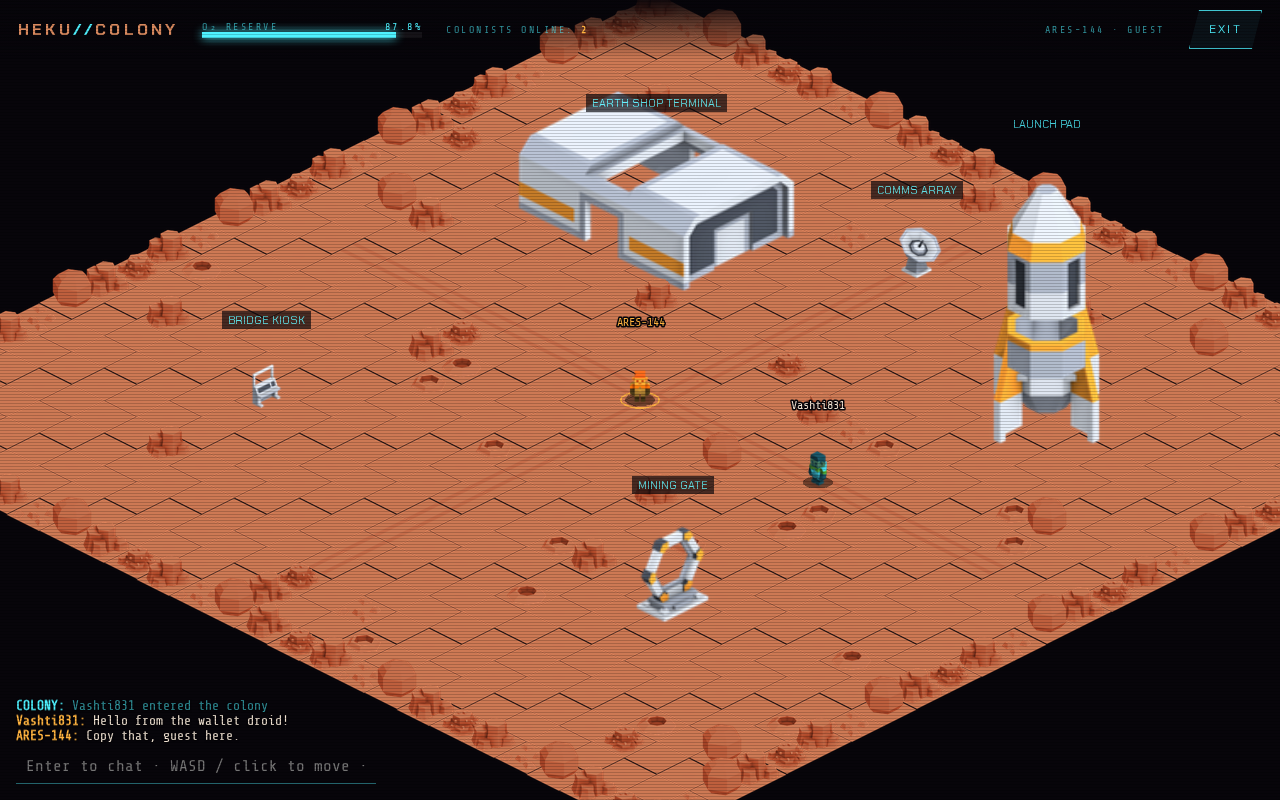
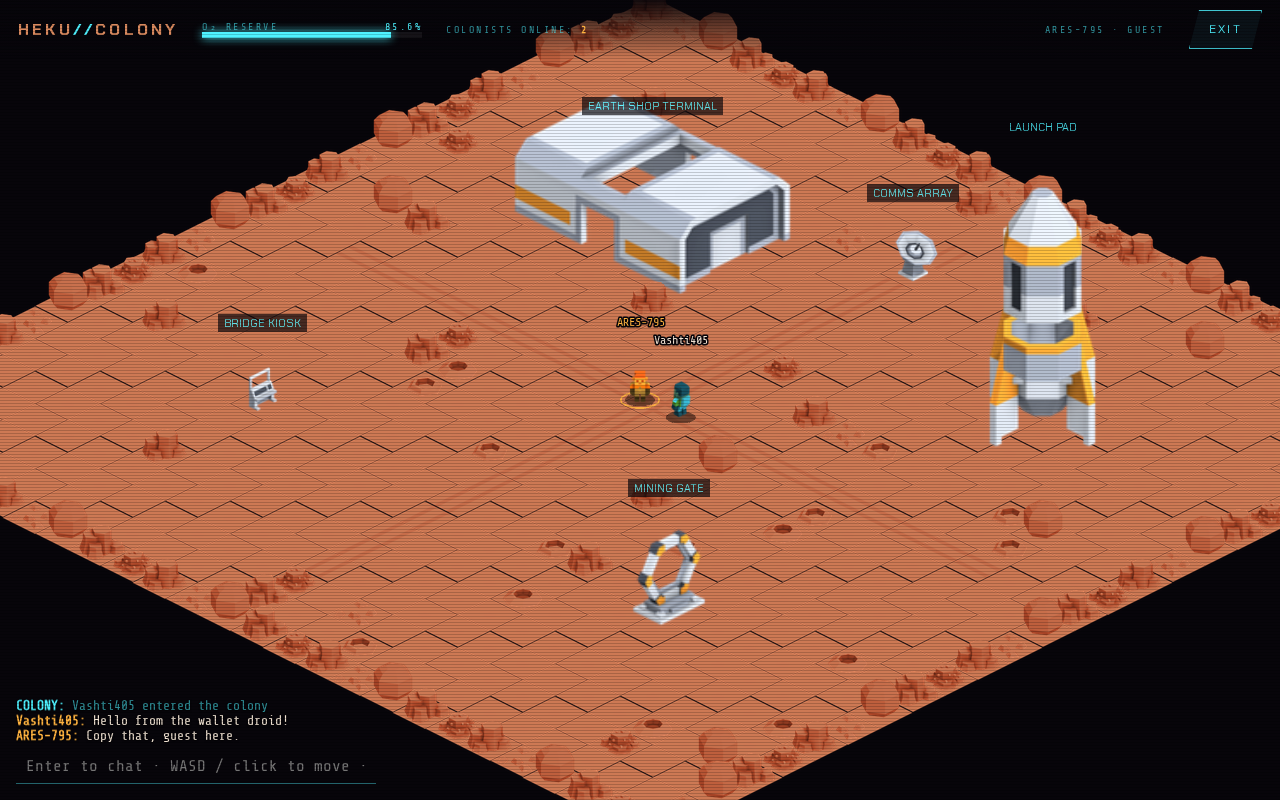
Move backend to Supabase: auth edge function, characters table with RLS, Realtime presence+broadcast; Colyseus server kept unused

diff --git a/client/src/net.ts b/client/src/net.ts
@@ -1,0 +1,56 @@
+// Supabase Realtime networking: Presence (who's online + profile + last pos) and Broadcast (positions ~10 Hz, chat).
+// Exposes a small Colyseus-like surface (sessionId, state.players, send, onMessage) so the Phaser scene stays the same.
+import type { RealtimeChannel } from "@supabase/supabase-js";
+import { supabase, type Character } from "./api";
+import { SPAWN, blocked, W, H } from "../../shared/map";
+import { bfs, step, type Ctl } from "../../shared/sim";
+export type NetPlayer = { id: string; name: string; color: string; variant: string; x: number; y: number; dir: string; moving: boolean; seen: number };
+type CB = (m: never) => void;
+export class Net {
+  sessionId: string; ch!: RealtimeChannel; me: NetPlayer; ctl: Ctl = { vx: 0, vy: 0, path: [] };
+  private map = new Map<string, NetPlayer>(); private handlers = new Map<string, CB[]>(); private addCbs: ((p: NetPlayer, id: string) => void)[] = []; private remCbs: ((p: NetPlayer, id: string) => void)[] = [];
+  private timer?: number; private lastSent = ""; private lastSentAt = 0; private lastChat = 0;
+  state = { players: { get: (id: string) => this.map.get(id), get size() { return 0; }, forEach: (f: (p: NetPlayer, id: string) => void) => this.map.forEach(f), values: () => this.map.values(),
+    onAdd: (f: (p: NetPlayer, id: string) => void) => { this.addCbs.push(f); this.map.forEach((p, id) => f(p, id)); }, onRemove: (f: (p: NetPlayer, id: string) => void) => { this.remCbs.push(f); } } };
+  constructor(c: Character) {
+    this.sessionId = c.userId; this.me = { id: c.userId, name: c.name, color: c.color, variant: c.variant, x: SPAWN.x + Math.random() - .5, y: SPAWN.y + Math.random() - .5, dir: "S", moving: false, seen: Date.now() };
+    Object.defineProperty(this.state.players, "size", { get: () => this.map.size });
+  }
+  private emit(t: string, m: unknown) { (this.handlers.get(t) || []).forEach(f => f(m as never)); }
+  onMessage(t: string, f: CB) { this.handlers.set(t, [...(this.handlers.get(t) || []), f]); }
+  private upsert(id: string, d: Partial<NetPlayer>) { const ex = this.map.get(id); if (ex) { Object.assign(ex, d, { seen: Date.now() }); return; }
+    if (!d.name) return; const p = { id, name: d.name!, color: d.color || "#ffffff", variant: d.variant || "astronautA", x: d.x ?? SPAWN.x, y: d.y ?? SPAWN.y, dir: d.dir || "S", moving: !!d.moving, seen: Date.now() };
+    this.map.set(id, p); this.addCbs.forEach(f => f(p, id)); }
+  /** re-add a player we timed out (e.g. their tab was throttled) using their presence profile */
+  private revive(id: string) { if (!id || this.map.has(id)) return; const meta = this.ch.presenceState()[id]?.[0] as Partial<NetPlayer> | undefined; if (meta) this.upsert(id, meta); }
+  private remove(id: string) { const p = this.map.get(id); if (!p || id === this.sessionId) return; this.map.delete(id); this.remCbs.forEach(f => f(p, id)); this.emit("sys", { text: `${p.name} left` }); }
+  async connect() {
+    this.map.set(this.sessionId, this.me);
+    this.ch = supabase.channel("colony", { config: { presence: { key: this.sessionId }, broadcast: { self: false } } });
+    this.ch.on("presence", { event: "sync" }, () => { const st = this.ch.presenceState<{ name: string; color: string; variant: string; x: number; y: number }>();
+      for (const [id, metas] of Object.entries(st)) if (id !== this.sessionId) this.upsert(id, metas[0]);
+    });
+    this.ch.on("presence", { event: "leave" }, ({ key }) => { setTimeout(() => { if (!this.ch.presenceState()[key]) this.remove(key); }, 3000); });
+    this.ch.on("presence", { event: "join" }, ({ key, newPresences }) => { if (key !== this.sessionId && !this.map.has(key)) { this.upsert(key, newPresences[0] as never); this.emit("sys", { text: `${(newPresences[0] as { name?: string }).name} entered the colony` }); } });
+    this.ch.on("broadcast", { event: "pos" }, ({ payload: p }) => { if (p?.id && p.id !== this.sessionId && Number.isFinite(p.x) && Number.isFinite(p.y)) this.revive(p.id), this.upsert(p.id, { x: clamp(p.x, 0, W), y: clamp(p.y, 0, H), dir: String(p.dir).slice(0, 2), moving: !!p.moving }); });
+    this.ch.on("broadcast", { event: "chat" }, ({ payload: m }) => { this.revive(m?.id); const p = this.map.get(m?.id); if (p && typeof m.text === "string") this.emit("chat", { id: p.id, name: p.name, text: m.text.slice(0, 120) }); });
+    await new Promise<void>((res, rej) => this.ch.subscribe(async s => { if (s === "SUBSCRIBED") { await this.track(); res(); } else if (s === "CHANNEL_ERROR" || s === "TIMED_OUT") rej(new Error("realtime " + s)); }));
+    let last = performance.now();
+    this.timer = window.setInterval(() => { const n = performance.now(); step(this.me, this.ctl, Math.min(.25, (n - last) / 1000)); last = n; this.publish(); }, 33); // departures come from Presence leave (crashed tabs drop after the socket heartbeat timeout)
+    addEventListener("pagehide", this.onHide);
+  }
+  private track() { const m = this.me; return this.ch.track({ name: m.name, color: m.color, variant: m.variant, x: m.x, y: m.y }); }
+  private publish() { const m = this.me; const s = `${m.x.toFixed(2)},${m.y.toFixed(2)},${m.dir},${m.moving}`; const now = Date.now();
+    if ((s !== this.lastSent && now - this.lastSentAt >= 100) || now - this.lastSentAt > 2000) { this.lastSent = s; this.lastSentAt = now; this.ch.send({ type: "broadcast", event: "pos", payload: { id: m.id, x: +m.x.toFixed(3), y: +m.y.toFixed(3), dir: m.dir, moving: m.moving } }); }
+    if (!m.moving && this.lastTracked !== s && now - this.lastTrackAt > 3000) { this.lastTracked = s; this.lastTrackAt = now; this.track(); } } // presence keeps a resting position for late joiners
+  private lastTracked = ""; private lastTrackAt = 0;
+  send(t: string, m: { vx?: number; vy?: number; x?: number; y?: number; text?: string }) {
+    if (t === "input") { this.ctl.vx = Math.sign(m.vx || 0); this.ctl.vy = Math.sign(m.vy || 0); if (this.ctl.vx || this.ctl.vy) this.ctl.path = []; }
+    if (t === "moveTo") { const tx = Math.floor(m.x!), ty = Math.floor(m.y!); if (tx < 0 || ty < 0 || tx >= W || ty >= H || blocked(tx, ty)) return; this.ctl.vx = this.ctl.vy = 0; this.ctl.path = bfs(Math.floor(this.me.x), Math.floor(this.me.y), tx, ty).slice(0, 80); }
+    if (t === "chat") { const text = String(m.text || "").replace(/\s+/g, " ").trim().slice(0, 120); if (!text || Date.now() - this.lastChat < 800) return; this.lastChat = Date.now();
+      this.ch.send({ type: "broadcast", event: "chat", payload: { id: this.sessionId, text } }); this.emit("chat", { id: this.sessionId, name: this.me.name, text }); }
+  }
+  private onHide = () => this.leave();
+  leave() { removeEventListener("pagehide", this.onHide); clearInterval(this.timer); this.ch?.untrack(); supabase.removeChannel(this.ch); }
+}
+const clamp = (v: number, a: number, b: number) => Math.max(a, Math.min(b, v));

diff --git a/supabase/functions/auth/index.ts b/supabase/functions/auth/index.ts
@@ -1,0 +1,46 @@
+// Heku Droid auth + characters. Custom session tokens (HMAC-SHA256, secret in public.app_secrets, service-role only).
+// Actions (POST JSON {action,...}): nonce{address} | verify{address,signature} | guest | me{token} | save{token,callsign,chassis,color}
+import { createClient } from "npm:@supabase/supabase-js@2.45.4";
+import { verifyMessage, isAddress, getAddress } from "npm:viem@2.21.25";
+const db = createClient(Deno.env.get("SUPABASE_URL")!, Deno.env.get("SUPABASE_SERVICE_ROLE_KEY")!, { auth: { persistSession: false } });
+const CORS = { "Access-Control-Allow-Origin": "*", "Access-Control-Allow-Headers": "authorization, x-client-info, apikey, content-type", "Access-Control-Allow-Methods": "POST, OPTIONS" };
+const json = (b: unknown, s = 200) => new Response(JSON.stringify(b), { status: s, headers: { ...CORS, "content-type": "application/json" } });
+const COLORS = ["#ffb340", "#4ff2ff", "#ff3b4a", "#9bd36a", "#c08cff", "#f1e3d3"], CHASSIS = ["astronautA", "astronautB"];
+const b64u = (u: Uint8Array) => btoa(String.fromCharCode(...u)).replace(/\+/g, "-").replace(/\//g, "_").replace(/=+$/, "");
+const hex = (n: number) => Array.from(crypto.getRandomValues(new Uint8Array(n)), b => b.toString(16).padStart(2, "0")).join("");
+let key: CryptoKey | null = null;
+async function hmacKey() { if (key) return key; const { data } = await db.from("app_secrets").select("v").eq("k", "session_hmac").single();
+  key = await crypto.subtle.importKey("raw", new TextEncoder().encode(data!.v), { name: "HMAC", hash: "SHA-256" }, false, ["sign", "verify"]); return key; }
+async function issue(u: string, ttlMs: number) { const p = b64u(new TextEncoder().encode(JSON.stringify({ u, e: Date.now() + ttlMs })));
+  const sig = new Uint8Array(await crypto.subtle.sign("HMAC", await hmacKey(), new TextEncoder().encode(p))); return p + "." + b64u(sig); }
+async function check(t?: string): Promise<string | null> { try { const [p, s] = String(t || "").split("."); if (!p || !s) return null;
+  const sig = Uint8Array.from(atob(s.replace(/-/g, "+").replace(/_/g, "/")), c => c.charCodeAt(0));
+  if (!(await crypto.subtle.verify("HMAC", await hmacKey(), sig, new TextEncoder().encode(p)))) return null;
+  const o = JSON.parse(atob(p.replace(/-/g, "+").replace(/_/g, "/"))); return o.e > Date.now() ? o.u : null; } catch { return null; } }
+const msg = (a: string, n: string) => `Heku Droid login\n\nSign to prove you own this wallet. No transaction, no gas.\n\nAddress: ${a}\nChain: Robinhood Chain Testnet (46630)\nNonce: ${n}`;
+const pub = (c: Record<string, string>) => c && { userId: c.user_id, name: c.callsign, variant: c.chassis, color: c.color };
+Deno.serve(async req => {
+  if (req.method === "OPTIONS") return new Response("ok", { headers: CORS });
+  if (req.method !== "POST") return json({ error: "POST only" }, 405);
+  const b = await req.json().catch(() => ({}));
+  try {
+    switch (b.action) {
+      case "nonce": { if (!isAddress(b.address)) return json({ error: "bad address" }, 400); const a = getAddress(b.address); const n = hex(16);
+        await db.from("auth_nonces").upsert({ address: a, nonce: n, expires_at: new Date(Date.now() + 5 * 60e3).toISOString() }); return json({ message: msg(a, n) }); }
+      case "verify": { if (!isAddress(b.address)) return json({ error: "bad address" }, 400); const a = getAddress(b.address);
+        const { data: row } = await db.from("auth_nonces").select("*").eq("address", a).maybeSingle(); await db.from("auth_nonces").delete().eq("address", a);
+        if (!row || new Date(row.expires_at).getTime() < Date.now()) return json({ error: "nonce expired" }, 400);
+        const ok = await verifyMessage({ address: a, message: msg(a, row.nonce), signature: b.signature }).catch(() => false); if (!ok) return json({ error: "bad signature" }, 401);
+        const u = "w:" + a.toLowerCase(); return json({ token: await issue(u, 7 * 864e5), userId: u }); }
+      case "guest": { const u = "g:" + hex(6); return json({ token: await issue(u, 864e5), userId: u }); }
+      case "me": { const u = await check(b.token); if (!u) return json({ error: "unauthorized" }, 401);
+        const { data } = await db.from("characters").select("*").eq("user_id", u).maybeSingle(); return json({ userId: u, character: data ? pub(data) : null }); }
+      case "save": { const u = await check(b.token); if (!u) return json({ error: "unauthorized" }, 401);
+        const name = String(b.callsign || "").trim(); if (!/^[A-Za-z0-9_\- ]{3,16}$/.test(name)) return json({ error: "Name: 3-16 letters, numbers, _ -" }, 400);
+        if (!COLORS.includes(b.color) || !CHASSIS.includes(b.chassis)) return json({ error: "bad look" }, 400);
+        const { data, error } = await db.from("characters").upsert({ user_id: u, callsign: name, chassis: b.chassis, color: b.color, updated_at: new Date().toISOString() }).select().single();
+        if (error) return json({ error: error.code === "23505" ? "Name taken" : "save failed" }, error.code === "23505" ? 409 : 500); return json({ character: pub(data) }); }
+      default: return json({ error: "unknown action" }, 400);
+    }
+  } catch (e) { console.error(e); return json({ error: "server error" }, 500); }
+});

diff --git a/client/src/Game.tsx b/client/src/Game.tsx
@@ -1,20 +1,20 @@
-import { useEffect, useRef, useState } from "react"; import Phaser from "phaser"; import { Client, type Room } from "colyseus.js";
-import { ColonyScene, bus } from "./scene"; import { WS, type Character } from "./api"; import type { Building } from "../../shared/map";
+import { useEffect, useRef, useState } from "react"; import Phaser from "phaser"; import { Net } from "./net";
+import { ColonyScene, bus } from "./scene"; import { type Character } from "./api"; import type { Building } from "../../shared/map";
 type Msg = { name: string; text: string; sys?: boolean };
 export default function Game({ token, me, onLogout }: { token: string; me: Character; onLogout: () => void }) {
-  const host = useRef<HTMLDivElement>(null); const roomRef = useRef<Room>(); const [log, setLog] = useState<Msg[]>([]); const [near, setNear] = useState<Building | null>(null);
+  const host = useRef<HTMLDivElement>(null); const roomRef = useRef<Net>(); const [log, setLog] = useState<Msg[]>([]); const [near, setNear] = useState<Building | null>(null);
   const [panel, setPanel] = useState<Building | null>(null); const [text, setText] = useState(""); const [count, setCount] = useState(0); const [err, setErr] = useState(""); const [o2, setO2] = useState(100);
   useEffect(() => { let game: Phaser.Game | undefined; let dead = false;
-    new Client(WS).joinOrCreate("colony", { token }).then(room => { if (dead) { room.leave(); return; } roomRef.current = room; (window as unknown as { __room: Room }).__room = room;
+    const net = new Net(me); net.connect().then(() => { const room = net; if (dead) { room.leave(); return; } roomRef.current = room; (window as unknown as { __room: Net }).__room = room; setCount(room.state.players.size);
       game = new Phaser.Game({ type: Phaser.AUTO, parent: host.current!, backgroundColor: "#07050a", scale: { mode: Phaser.Scale.RESIZE, width: window.innerWidth, height: window.innerHeight }, scene: [] });
-      game.scene.add("colony", ColonyScene, true, { room }); room.onLeave(code => { if (code === 4000) setErr("Signed in elsewhere — disconnected."); else if (code > 1000) setErr("Connection lost (" + code + ")."); }); })
-      .catch(e => setErr("Could not join colony: " + (e.message || e)));
+      game.scene.add("colony", ColonyScene, true, { room }); })
+      .catch(e => { net.leave(); setErr("Could not join colony: " + (e.message || e)); });
     const on = (t: string, f: (d: never) => void) => { const h = (e: Event) => f((e as CustomEvent).detail as never); bus.addEventListener(t, h); return () => bus.removeEventListener(t, h); };
     const offs = [on("chat", (m: Msg) => setLog(l => [...l.slice(-30), m])), on("near", (b: Building | null) => setNear(b)), on("interact", (b: Building) => setPanel(b)),
       on("roster", () => setCount(roomRef.current?.state.players.size ?? 0))];
     const o = setInterval(() => setO2(v => (v <= 20 ? 100 : v - .2)), 1000);
     return () => { dead = true; offs.forEach(f => f()); clearInterval(o); roomRef.current?.leave(); game?.destroy(true); };
-  }, [token]);
+  }, [token, me]);
   const send = () => { if (text.trim()) roomRef.current?.send("chat", { text }); setText(""); };
   return <>
     <div ref={host} style={{ position: "fixed", inset: 0 }} />

diff --git a/shared/sim.ts b/shared/sim.ts
@@ -1,0 +1,24 @@
+// Movement sim (pathfinding + collision). Used by the client (Supabase mode, client-authoritative) and kept identical to server/.
+import { blocked, W, H } from "./map";
+export const SPEED = 4;
+const DIRS: Record<string, string> = { "1,0": "SE", "-1,0": "NW", "0,1": "SW", "0,-1": "NE", "1,1": "S", "-1,-1": "N", "1,-1": "E", "-1,1": "W" };
+export type Body = { x: number; y: number; dir: string; moving: boolean };
+export type Ctl = { vx: number; vy: number; path: { x: number; y: number }[] };
+export function bfs(sx: number, sy: number, tx: number, ty: number) {
+  const k = (x: number, y: number) => y * W + x; const prev = new Map<number, number>(); const q = [[sx, sy]]; prev.set(k(sx, sy), -1);
+  while (q.length) { const [x, y] = q.shift()!; if (x === tx && y === ty) break;
+    for (const [dx, dy] of [[1,0],[-1,0],[0,1],[0,-1],[1,1],[-1,-1],[1,-1],[-1,1]]) { const nx = x + dx, ny = y + dy;
+      if (nx < 0 || ny < 0 || nx >= W || ny >= H || blocked(nx, ny) || prev.has(k(nx, ny))) continue;
+      if (dx && dy && (blocked(x + dx, y) || blocked(x, y + dy))) continue; prev.set(k(nx, ny), k(x, y)); q.push([nx, ny]); } }
+  if (!prev.has(k(tx, ty))) return []; const out: { x: number; y: number }[] = []; let c = k(tx, ty);
+  while (c !== -1 && c !== k(sx, sy)) { out.unshift({ x: (c % W) + 0.5, y: Math.floor(c / W) + 0.5 }); c = prev.get(c)!; } return out;
+}
+export function step(p: Body, t: Ctl, dt: number) {
+  let vx = t.vx, vy = t.vy;
+  if (!vx && !vy && t.path.length) { const w = t.path[0]; const dx = w.x - p.x, dy = w.y - p.y; const d = Math.hypot(dx, dy); if (d < 0.08) t.path.shift(); else { vx = dx / d; vy = dy / d; } }
+  const len = Math.hypot(vx, vy); if (!len) { p.moving = false; return; }
+  const s = SPEED * dt / Math.max(1, len); const nx = p.x + vx * s, ny = p.y + vy * s; const R = 0.25;
+  const free = (x: number, y: number) => !blocked(x - R, y - R) && !blocked(x + R, y - R) && !blocked(x - R, y + R) && !blocked(x + R, y + R);
+  if (free(nx, p.y)) p.x = nx; if (free(p.x, ny)) p.y = ny;
+  const q = (v: number) => (v > 0.38 ? 1 : v < -0.38 ? -1 : 0); p.moving = true; p.dir = DIRS[`${q(vx / len)},${q(vy / len)}`] || p.dir;
+}

diff --git a/client/src/Login.tsx b/client/src/Login.tsx
@@ -1,11 +1,11 @@
 import { useState } from "react"; import { ConnectButton } from "@rainbow-me/rainbowkit"; import { useAccount, useSignMessage } from "wagmi";
-import { api } from "./api";
+import { fn } from "./api";
 export default function Login({ onToken }: { onToken: (t: string) => void }) {
   const { address, isConnected } = useAccount(); const { signMessageAsync } = useSignMessage(); const [err, setErr] = useState(""); const [busy, setBusy] = useState(false);
-  const sign = async () => { setBusy(true); setErr(""); try { const { message } = await api<{ message: string }>(`/auth/nonce?address=${address}`);
-    const signature = await signMessageAsync({ message }); const { token } = await api<{ token: string }>("/auth/verify", { method: "POST", body: JSON.stringify({ address, signature }) }); onToken(token); }
+  const sign = async () => { setBusy(true); setErr(""); try { const { message } = await fn<{ message: string }>("nonce", { address });
+    const signature = await signMessageAsync({ message }); const { token } = await fn<{ token: string }>("verify", { address, signature }); onToken(token); }
     catch (e) { setErr((e as { shortMessage?: string }).shortMessage || (e as Error).message); } finally { setBusy(false); } };
-  const guest = async () => { try { const { token } = await api<{ token: string }>("/auth/guest", { method: "POST" }); onToken(token); } catch (e) { setErr("Server unreachable: " + (e as Error).message); } };
+  const guest = async () => { try { const { token } = await fn<{ token: string }>("guest"); onToken(token); } catch (e) { setErr("Server unreachable: " + (e as Error).message); } };
   return <div className="center"><div className="holo" style={{ width: 420 }}>
     <div className="tag">jezero colony · uplink</div><h1 className="d" style={{ fontSize: 34, margin: "8px 0 4px", color: "#d98a5f" }}>HEKU<span style={{ color: "#4ff2ff" }}>//</span>DROID</h1>
     <p style={{ opacity: .7, fontSize: 13 }}>Sign in with your wallet (free signature, no gas) or land as a guest.</p>

diff --git a/client/src/scene.ts b/client/src/scene.ts
@@ -1,4 +1,4 @@
-import Phaser from "phaser"; import type { Room } from "colyseus.js";
+import Phaser from "phaser"; import type { Net } from "./net";
 import { GRID, W, H, BUILDINGS, type Building } from "../../shared/map";
 export const TW = 65, TH = 32.5; const OY = 0.616;
 export const iso = (x: number, y: number) => ({ sx: (x - y) * TW / 2, sy: (x + y) * TH / 2 });
@@ -8,9 +8,9 @@ type P = { id: string; name: string; color: string; variant: string; x: number; 
 type V = { c: Phaser.GameObjects.Container; spr: Phaser.GameObjects.Image; tx: number; ty: number; rx: number; ry: number; p: P; bubble?: Phaser.GameObjects.Container; bt?: number; variant: string };
 const SPR_DIR: Record<string, string> = { N: "N", S: "S", E: "E", W: "W", NE: "NE", NW: "NW", SE: "SE", SW: "SW" };
 export class ColonyScene extends Phaser.Scene {
-  room!: Room; me = ""; views = new Map<string, V>(); keys!: Record<string, Phaser.Input.Keyboard.Key>; lastInput = "0,0"; near: Building | null = null; marker!: Phaser.GameObjects.Graphics;
+  room!: Net; me = ""; views = new Map<string, V>(); keys!: Record<string, Phaser.Input.Keyboard.Key>; lastInput = "0,0"; near: Building | null = null; marker!: Phaser.GameObjects.Graphics;
   constructor() { super("colony"); }
-  init(d: { room: Room }) { this.room = d.room; this.me = d.room.sessionId; }
+  init(d: { room: Net }) { this.room = d.room; this.me = d.room.sessionId; }
   preload() {
     const names = new Set<string>(["terrain_SE", "crater_SE", "craterLarge_SE", "rock_largeA_SE", "rock_largeB_SE", "rocks_smallA_SE", "rock_crystals_SE", "meteor_SE", "terrain_roadStraight_SE", "terrain_roadStraight_SW", "terrain_roadCross_SE", "machine_wireless_SE", "barrels_SE", "rover_SE", "machine_generatorLarge_SE"]);
     BUILDINGS.forEach(b => b.sprites.forEach(s => names.add(s)));

diff --git a/client/src/api.ts b/client/src/api.ts
@@ -1,9 +1,10 @@
-const q = new URLSearchParams(location.search);
-if (q.get("server")) localStorage.setItem("heku-server", q.get("server")!);
-export const SERVER = (q.get("server") || import.meta.env.VITE_SERVER_URL || localStorage.getItem("heku-server") || "http://localhost:2567").replace(/\/$/, "");
-export const WS = SERVER.replace(/^http/, "ws");
+import { createClient } from "@supabase/supabase-js";
+export const SUPABASE_URL = import.meta.env.VITE_SUPABASE_URL as string;
+export const SUPABASE_KEY = import.meta.env.VITE_SUPABASE_ANON_KEY as string;
+export const supabase = createClient(SUPABASE_URL, SUPABASE_KEY, { auth: { persistSession: false }, realtime: { params: { eventsPerSecond: 20 } } });
 export type Character = { userId: string; name: string; color: string; variant: string };
-export async function api<T>(path: string, init: RequestInit & { token?: string } = {}): Promise<T> {
-  const r = await fetch(SERVER + path, { ...init, headers: { "content-type": "application/json", ...(init.token ? { authorization: "Bearer " + init.token } : {}) } });
+/** Calls the `auth` edge function (wallet nonce/verify, guest, me, save). */
+export async function fn<T>(action: string, body: Record<string, unknown> = {}): Promise<T> {
+  const r = await fetch(`${SUPABASE_URL}/functions/v1/auth`, { method: "POST", headers: { "content-type": "application/json", apikey: SUPABASE_KEY, authorization: `Bearer ${SUPABASE_KEY}` }, body: JSON.stringify({ action, ...body }) });
   const j = await r.json().catch(() => ({})); if (!r.ok) throw new Error(j.error || "HTTP " + r.status); return j as T;
 }

diff --git a/client/src/main.tsx b/client/src/main.tsx
@@ -1,10 +1,10 @@
 import React, { useEffect, useState } from "react"; import ReactDOM from "react-dom/client";
 import "@fontsource/chakra-petch/400.css"; import "@fontsource/chakra-petch/700.css"; import "@fontsource/share-tech-mono/400.css"; import "./style.css";
-import { WalletProviders } from "./wallet"; import Login from "./Login"; import CharacterCreate from "./CharacterCreate"; import Game from "./Game"; import { api, type Character } from "./api";
+import { WalletProviders } from "./wallet"; import Login from "./Login"; import CharacterCreate from "./CharacterCreate"; import Game from "./Game"; import { fn, type Character } from "./api";
 function App() {
   const [token, setToken] = useState<string | null>(() => sessionStorage.getItem("heku-token")); const [ch, setCh] = useState<Character | null | undefined>(undefined);
   useEffect(() => { if (!token) return; sessionStorage.setItem("heku-token", token);
-    api<{ character: Character | null }>("/character", { token }).then(r => setCh(r.character)).catch(() => { sessionStorage.removeItem("heku-token"); setToken(null); }); }, [token]);
+    fn<{ character: Character | null }>("me", { token }).then(r => setCh(r.character)).catch(() => { sessionStorage.removeItem("heku-token"); setToken(null); }); }, [token]);
   const logout = () => { sessionStorage.removeItem("heku-token"); setToken(null); setCh(undefined); };
   if (!token) return <Login onToken={setToken} />;
   if (ch === undefined) return <div className="center tag">establishing uplink…</div>;

diff --git a/client/src/CharacterCreate.tsx b/client/src/CharacterCreate.tsx
@@ -1,7 +1,7 @@
-import { useState } from "react"; import { api, type Character } from "./api"; import { DROID_COLORS, DROID_VARIANTS } from "../../shared/map";
+import { useState } from "react"; import { fn, type Character } from "./api"; import { DROID_COLORS, DROID_VARIANTS } from "../../shared/map";
 export default function CharacterCreate({ token, onDone }: { token: string; onDone: (c: Character) => void }) {
   const [name, setName] = useState(""); const [color, setColor] = useState(DROID_COLORS[0]); const [variant, setVariant] = useState<string>(DROID_VARIANTS[0]); const [err, setErr] = useState("");
-  const save = async () => { try { const { character } = await api<{ character: Character }>("/character", { method: "POST", token, body: JSON.stringify({ name, color, variant }) }); onDone(character); } catch (e) { setErr((e as Error).message); } };
+  const save = async () => { try { const { character } = await fn<{ character: Character }>("save", { token, callsign: name, color, chassis: variant }); onDone(character); } catch (e) { setErr((e as Error).message); } };
   return <div className="center"><div className="holo" style={{ width: 520 }}>
     <div className="tag">droid fabrication bay</div><h2 className="d" style={{ margin: "6px 0 16px" }}>Build your droid</h2>
     <label className="tag">callsign</label><input data-testid="name" style={{ width: "100%", fontSize: 22 }} value={name} maxLength={16} onChange={e => setName(e.target.value)} placeholder="e.g. ARES-7" />

diff --git a/README.md b/README.md
@@ -1,5 +1,13 @@
 # Heku Droid — Colony (Phase 1)
 
+> **Current backend: Supabase** (project `heku-game`, ref `reddsewdebddtbbromvg`). Live at https://heku-game.vercel.app.
+> - `supabase/functions/auth`: edge function. Handles wallet nonce issue/verify (viem `verifyMessage`) and guest login, and returns an HMAC session token. Character load/save happen there too.
+> - `supabase/migrations`: the `characters` table (RLS: public read, writes only through the function using the service role), nonces, and the token secret.
+> - `client/src/net.ts`: Supabase Realtime channel `colony`. Presence tracks who's online (callsign, chassis, color, resting position). Broadcast carries `pos` (about 10 Hz while moving, 2 s heartbeat; clients smooth between updates) and `chat` (client-side limit of one message per 800 ms).
+> - Movement, pathfinding and collision now run **in the client** (`shared/sim.ts`). This is client-authoritative: a modified client could teleport or fake its position. Fine for a social hub, not for anything with stakes.
+> - Client env: `VITE_SUPABASE_URL`, `VITE_SUPABASE_ANON_KEY` (publishable key).
+> - `server/` (Colyseus) is **kept but unused**. It's the authoritative option once real-time rules matter (Railway, see below).
+
 2D isometric multiplayer Mars colony. Phaser 3 client + Colyseus authoritative server.
 
 ```
@@ -10,9 +18,9 @@ shared/   map.ts — the map grid, buildings, and droid options, used by both cl
 
 ## Run locally
 ```
-cd server && npm i && npm run dev        # :2567
-cd client && npm i && npm run dev        # :5173  (VITE_SERVER_URL defaults to http://localhost:2567)
+cd client && npm i && VITE_SUPABASE_URL=... VITE_SUPABASE_ANON_KEY=... npm run dev
 ```
+The legacy Colyseus server (`cd server && npm run dev`) isn't used by the current client.
 To point the client at another server: build with `VITE_SERVER_URL=https://…`, or open `https://<client>/?server=https://…`. The `?server=` value is remembered in localStorage.
 
 ## Phase 1 features
